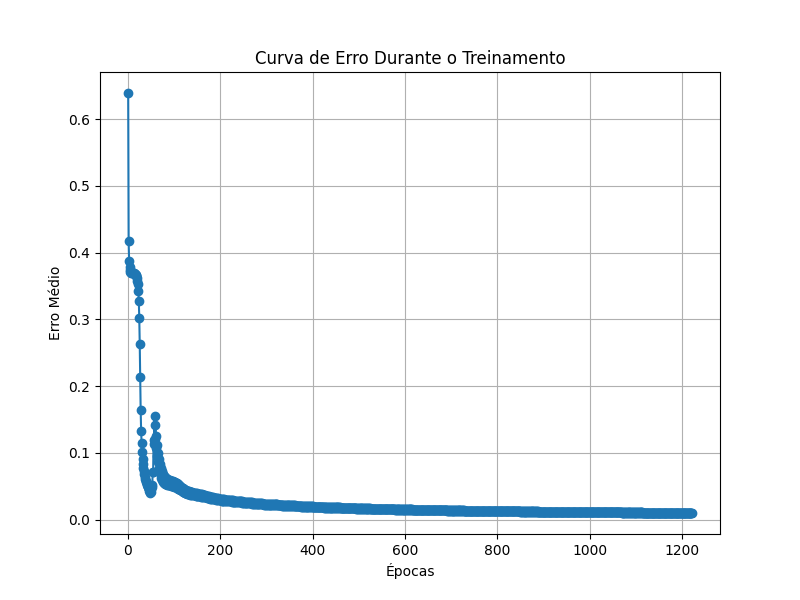
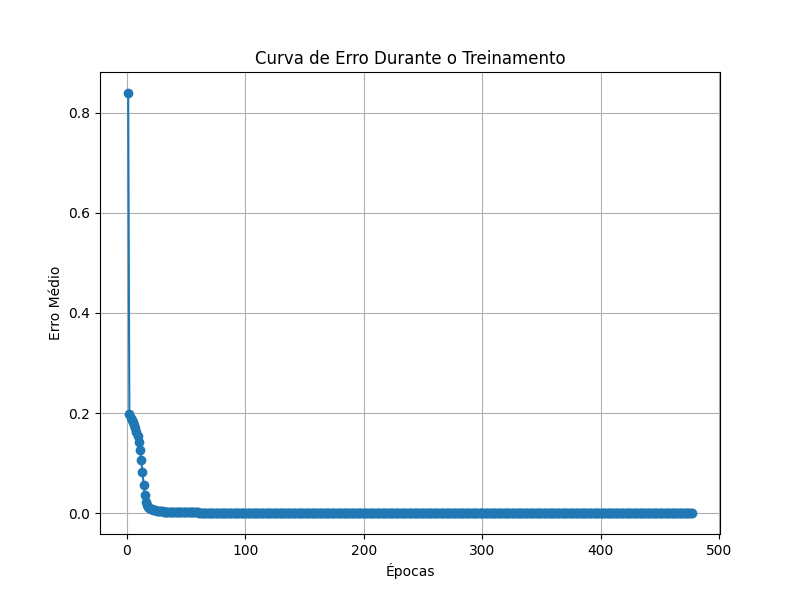
new meanError method implemented

diff --git a/Back_Propagation/back_propagation.py b/Back_Propagation/back_propagation.py
@@ -18,10 +18,10 @@ def backPropagation(
 ):
     layers = neuralNetworkGen(initialLayerWidth, depth, inputs)
     epoch = 0
-    errorMedio = float('inf')
+    errorMse = float('inf')
     errorHistory = []
 
-    while epoch < maxEpochs and errorMedio > errorThreshold:
+    while epoch < maxEpochs and errorMse > errorThreshold:
         outputs = []
         totalError = 0
 
@@ -37,7 +37,7 @@ def backPropagation(
             output = outputsPerLayer[-1][0]
             outputs.append(output)
 
-            totalError += abs(expectedOutput - output)
+            totalError += (expectedOutput - output) ** 2
 
             for layer in outputsPerLayer:
                 derivatesPerLayer = [getDerivative(out, activation) for out in layer]
@@ -91,10 +91,10 @@ def backPropagation(
                         avg_delta = batch_weight_updates[layerIndex][neuronIndex][wIndex] / len(inputs)
                         neuron.weights[wIndex] += avg_delta
 
-        errorMedio = totalError / len(inputs)
-        errorHistory.append(errorMedio)
+        errorMse = totalError / len(inputs)
+        errorHistory.append(errorMse)
 
-        print(f"Época {epoch + 1}: Erro médio = {errorMedio}")
+        print(f"Época {epoch + 1}: Erro médio = {errorMse}")
         epoch += 1
 
     print("Treinamento finalizado.")

diff --git a/main.py b/main.py
@@ -13,8 +13,8 @@ inputs = np.array([
 
 weights = [0.5, 0.2, 0.3]
 
-expectedOutputs = [0, 1, 1, 0]
+expectedOutputs = [0, 0, 0, 1]
 
 #perceptron(inputs, expectedOutputs, 100, "XOR-2bits.gif")
 
-backPropagation(2, 3, inputs, expectedOutputs, 10000, 0.01, "Tanh-XOR-2bits", "tanh", "online")
+backPropagation(2, 3, inputs, expectedOutputs, 10000, 0.0001, "Tanh-AND-2bits", "tanh", "online")

diff --git a/Neuron/neuron.py b/Neuron/neuron.py
@@ -2,7 +2,7 @@ import numpy as np
 
 class Neuron:
 
-    def __init__(self, nInputs, learningRate = 0.3):
+    def __init__(self, nInputs, learningRate = 0.1):
         self.weights = np.random.uniform(-1, 1, nInputs)
         self.bias = 1
         self.biasWeight = np.random.uniform(-1, 1, 1)
